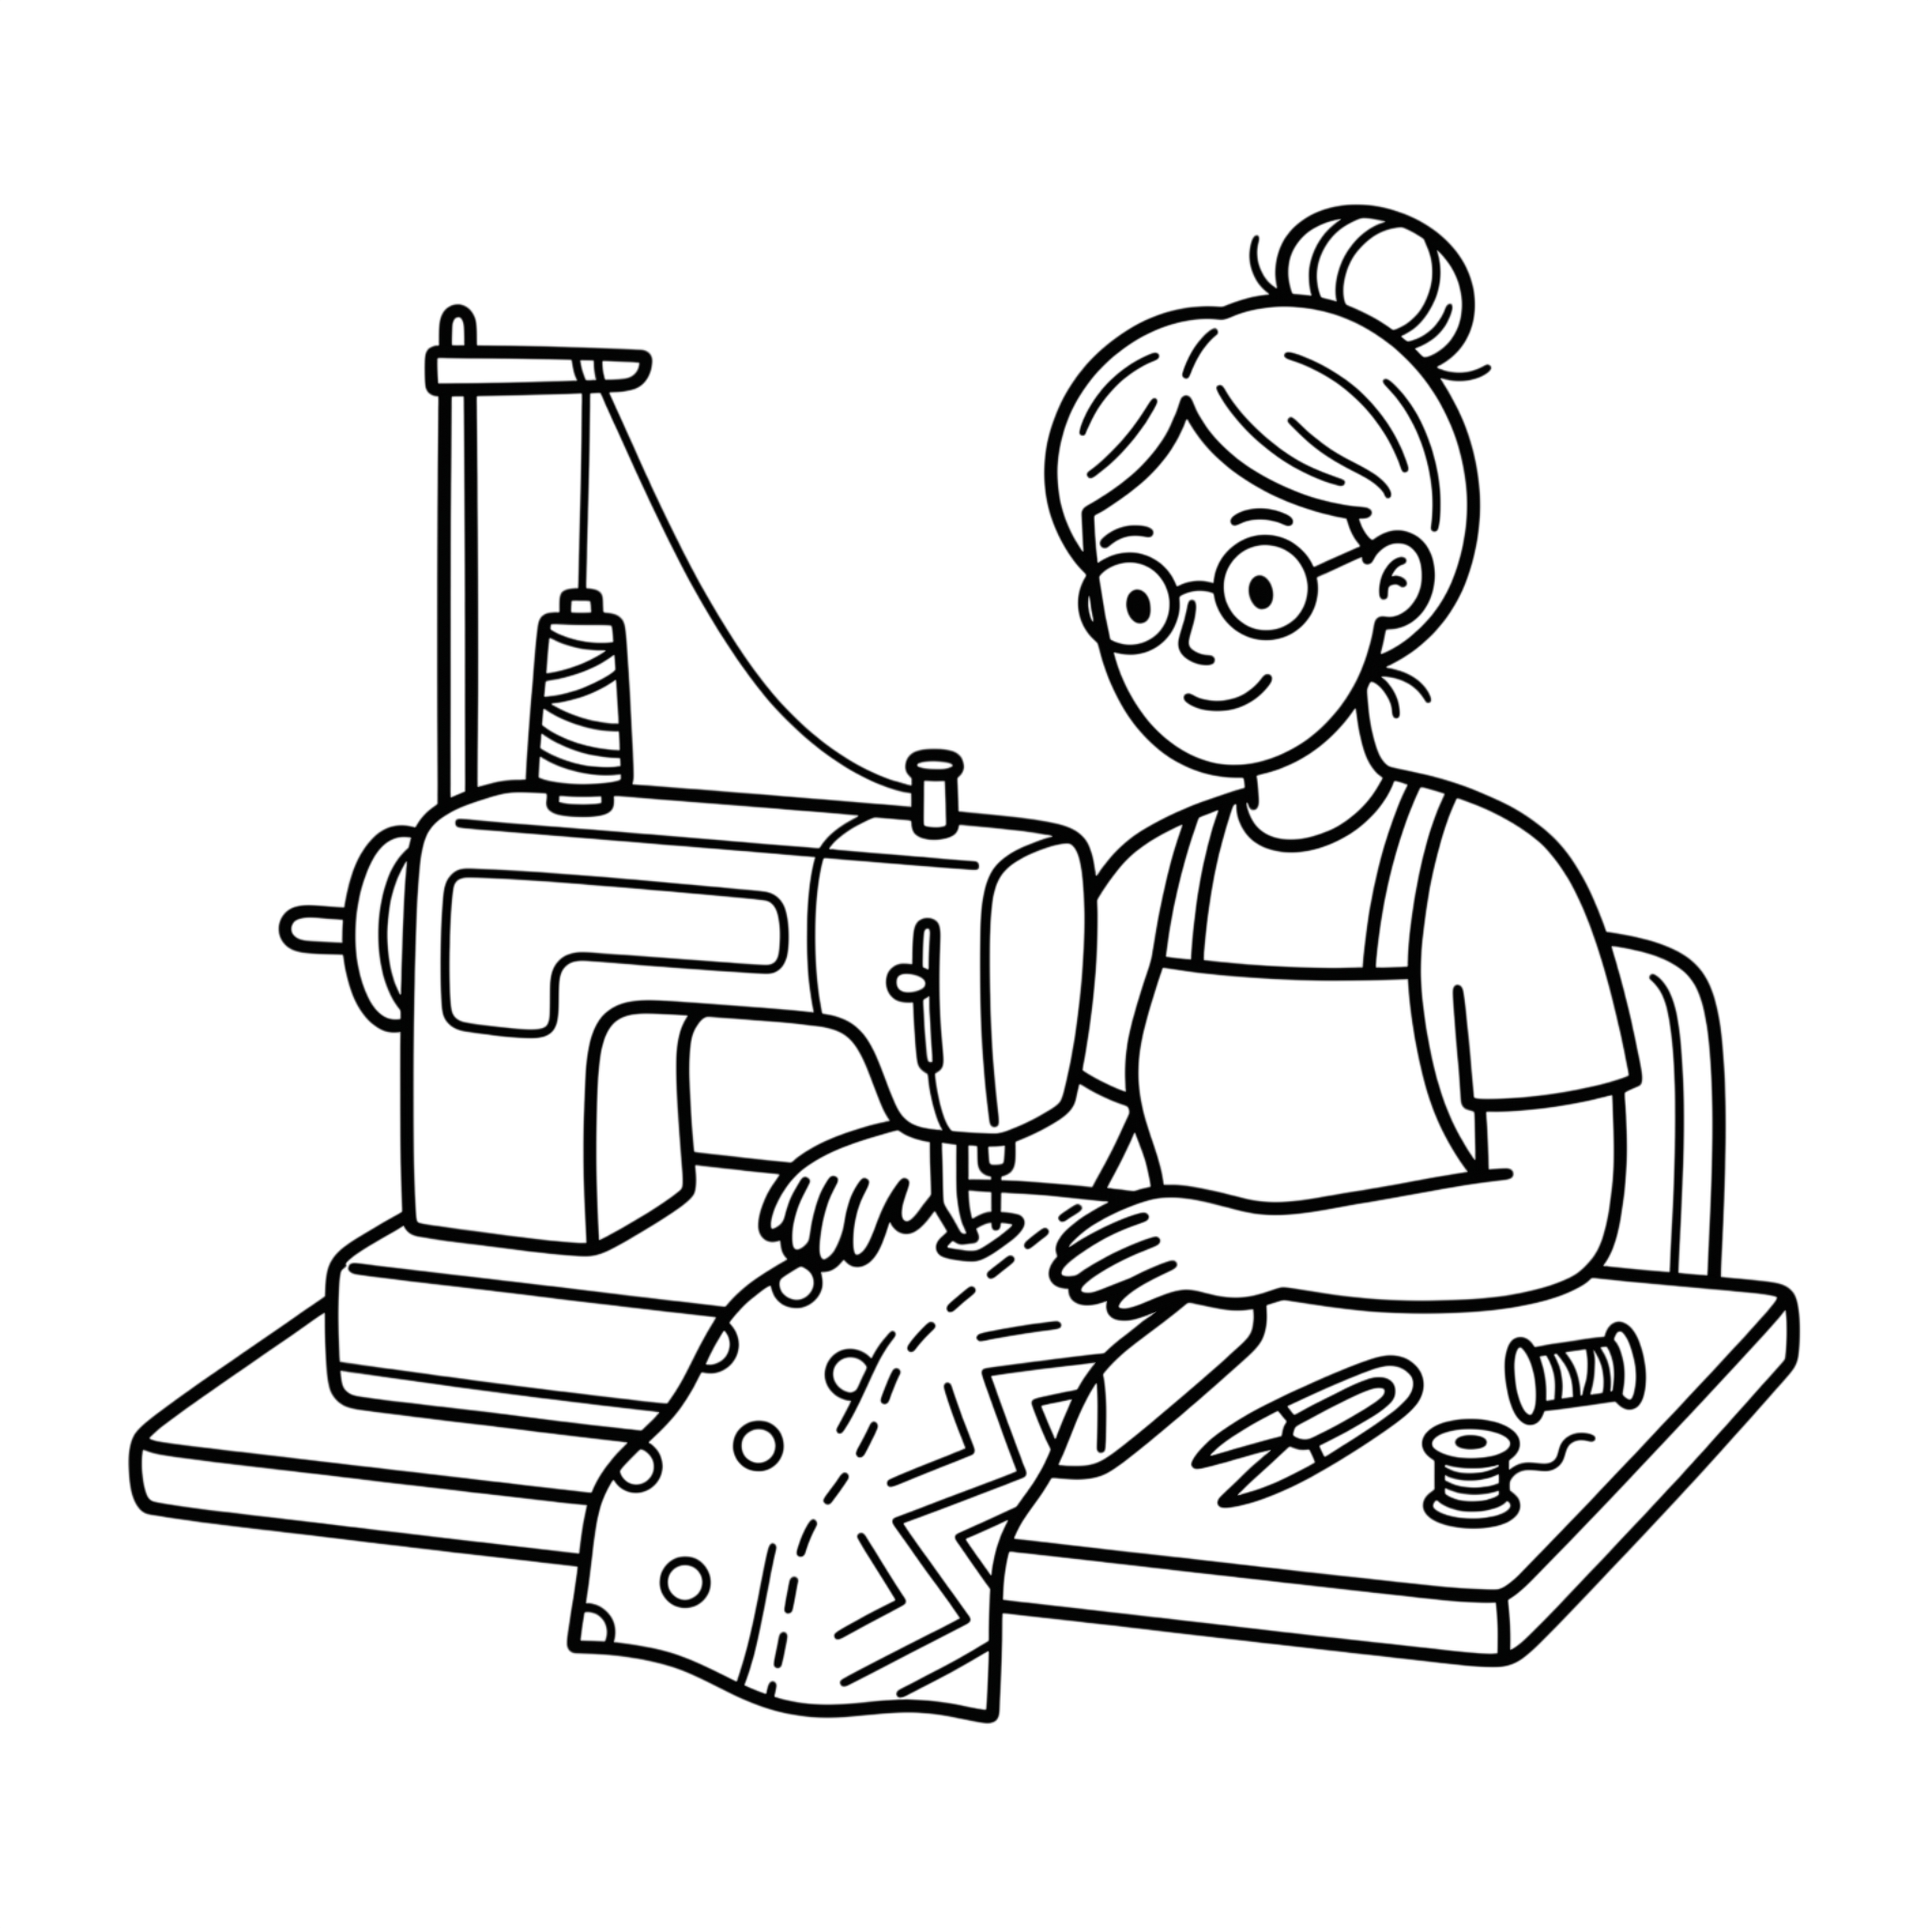
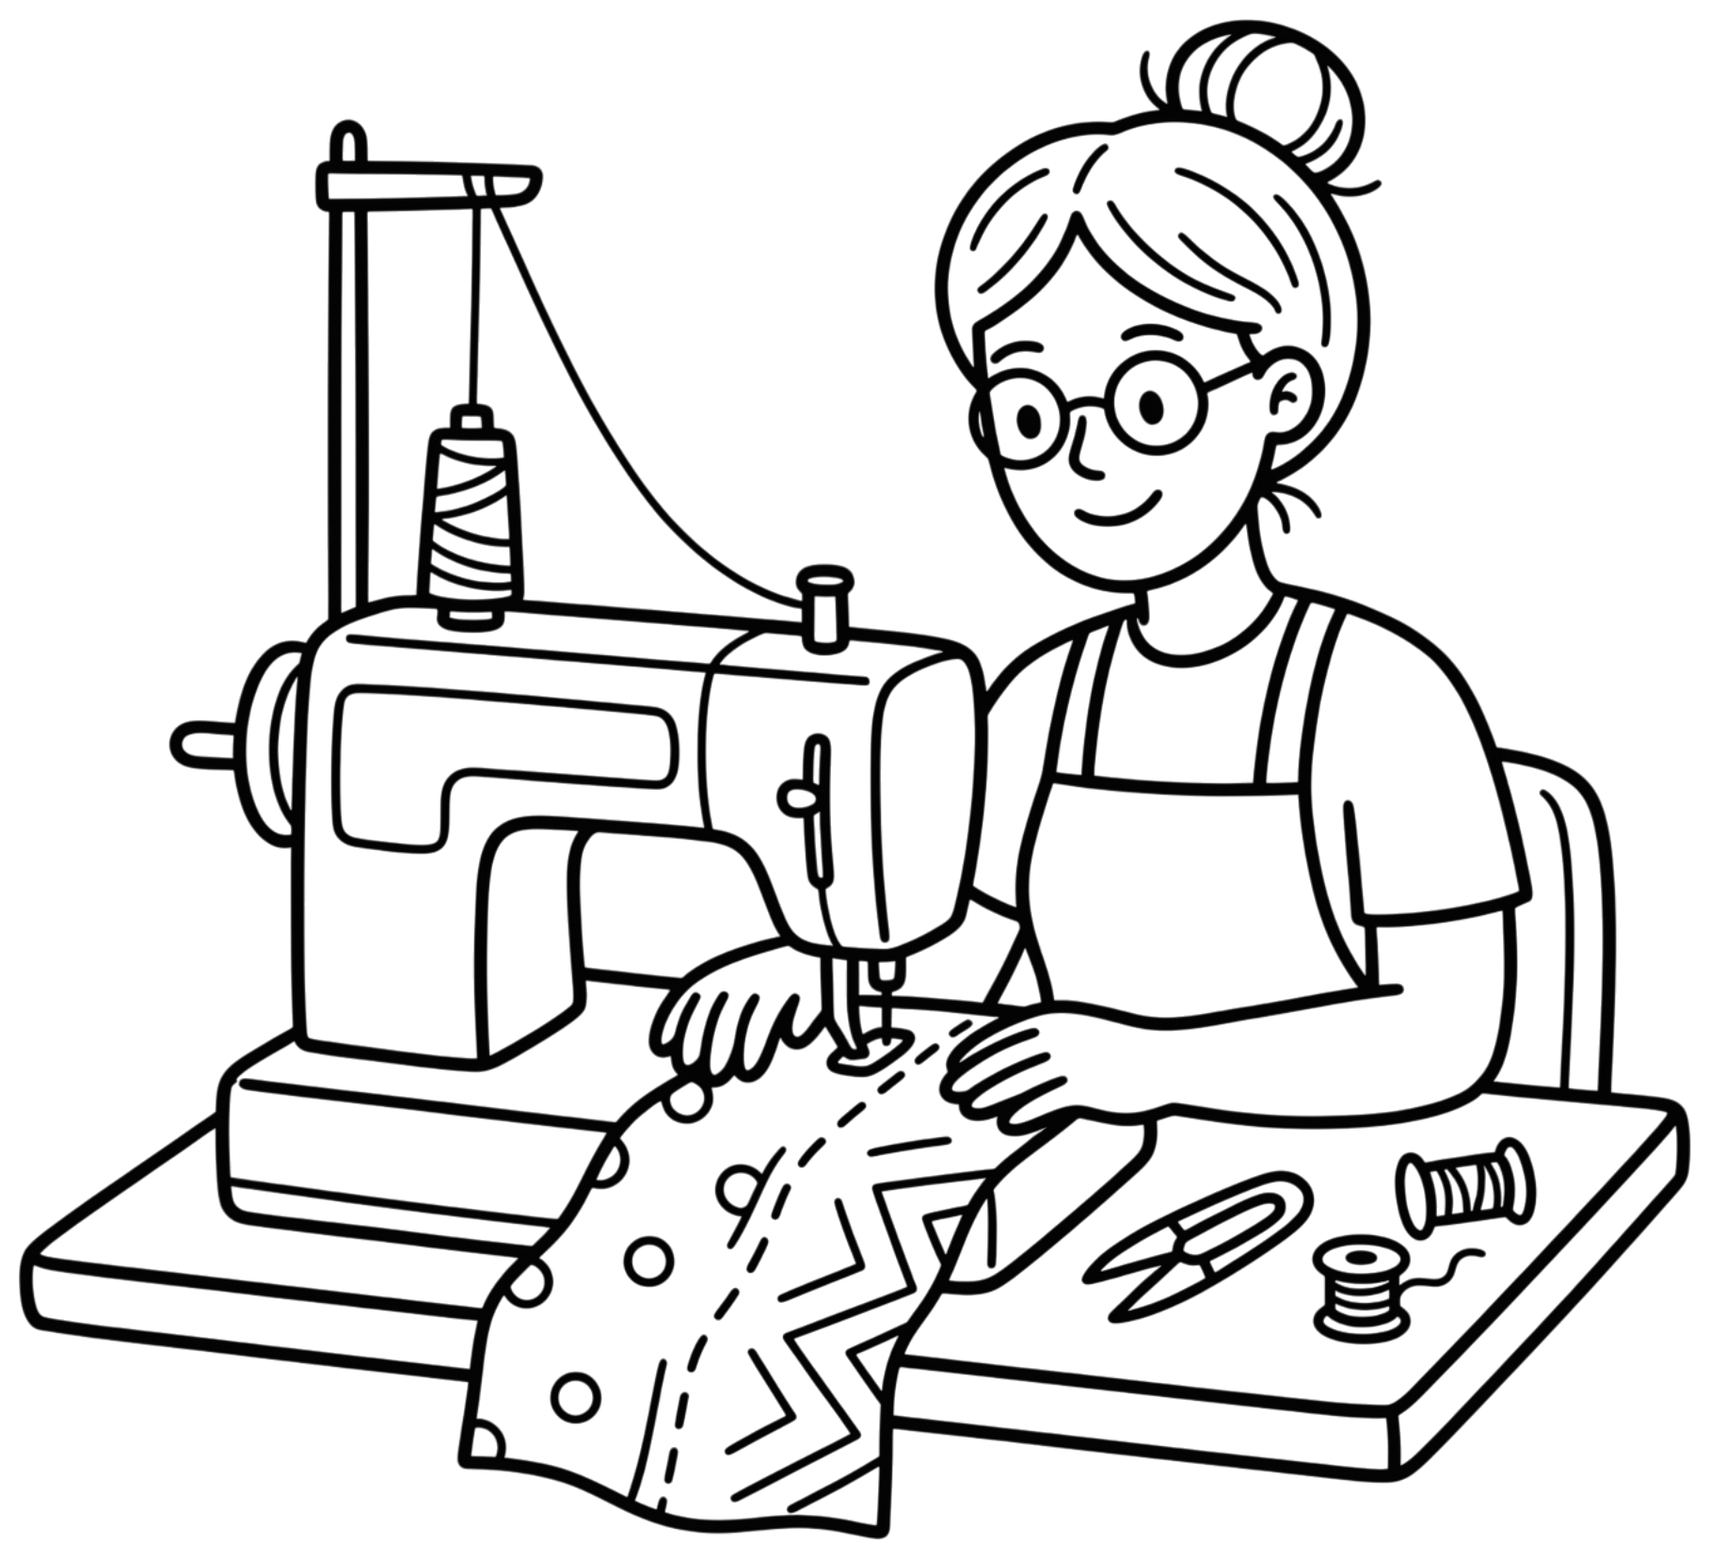
feat: add tailor, parcel, and phone illustration assets

Changed region(s): [[0.0, 0.0, 1.0, 0.9855], [0.339, 0.2464, 0.3698, 0.308]]

diff --git a/src/app/components/ZigzaLandingPageClient.tsx b/src/app/components/ZigzaLandingPageClient.tsx
@@ -42,8 +42,8 @@ import {
   Loader2
 } from 'lucide-react'
 import { toast } from 'sonner'
+import { saveDemoRequest } from '../platform-admin/utils/platformStorage'
 import { submitDemoRequestAction, checkContactInUseAction, submitCustomerQueryAction } from '../platform-admin/actions'
-import { PhoneZigzaVerifiedIcon, WomanSewingMachineIcon, GuyCarryingParcelIcon } from './MapCartoonIcons'
 
 // Smooth Easing Animated Counter for Live Metrics
 function AnimatedCounter({ 
